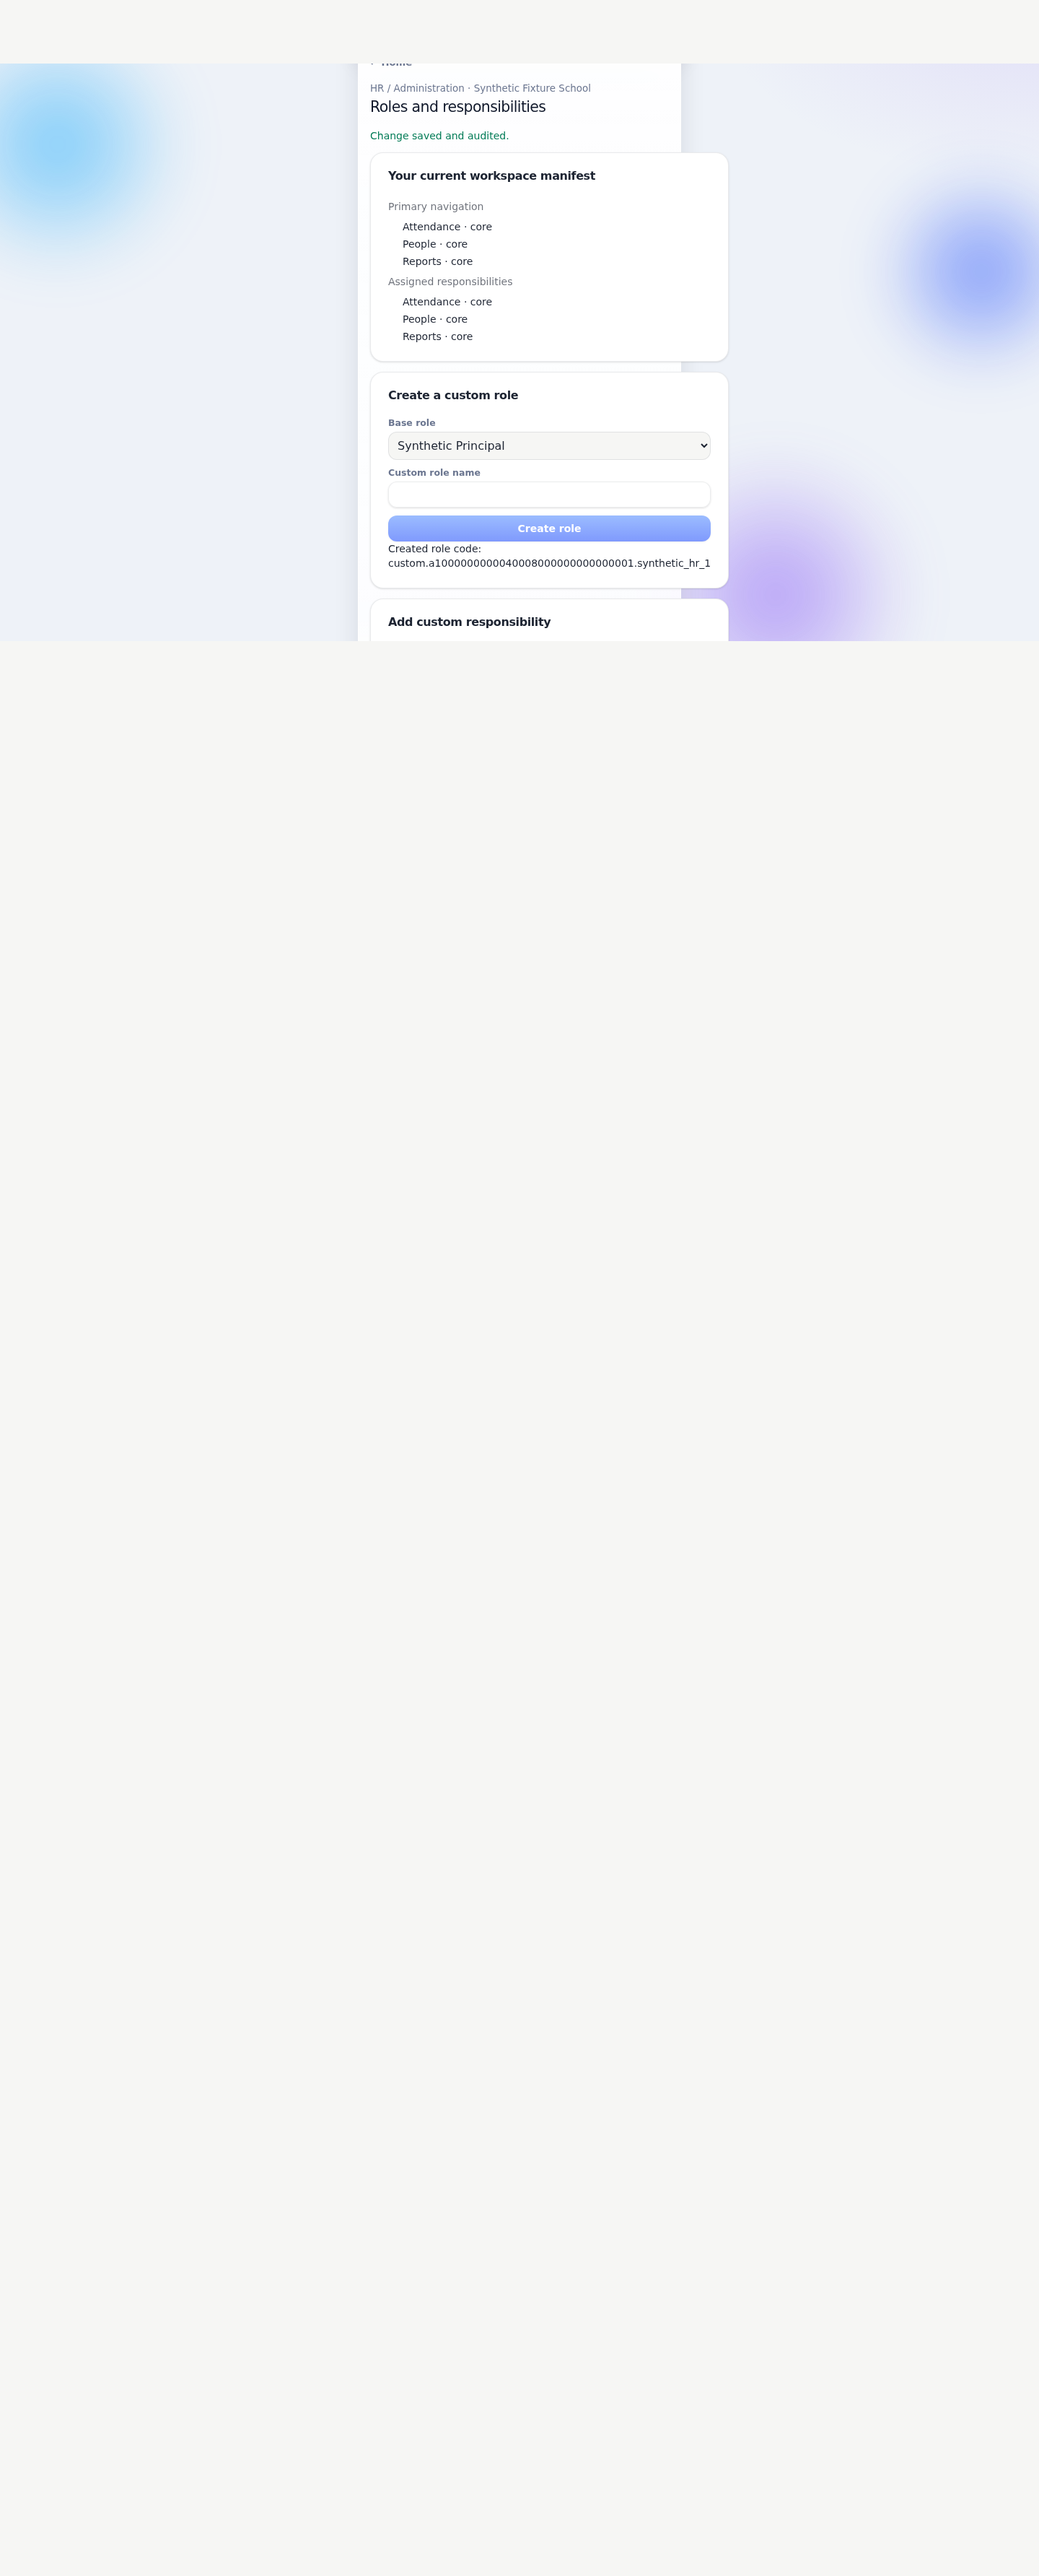
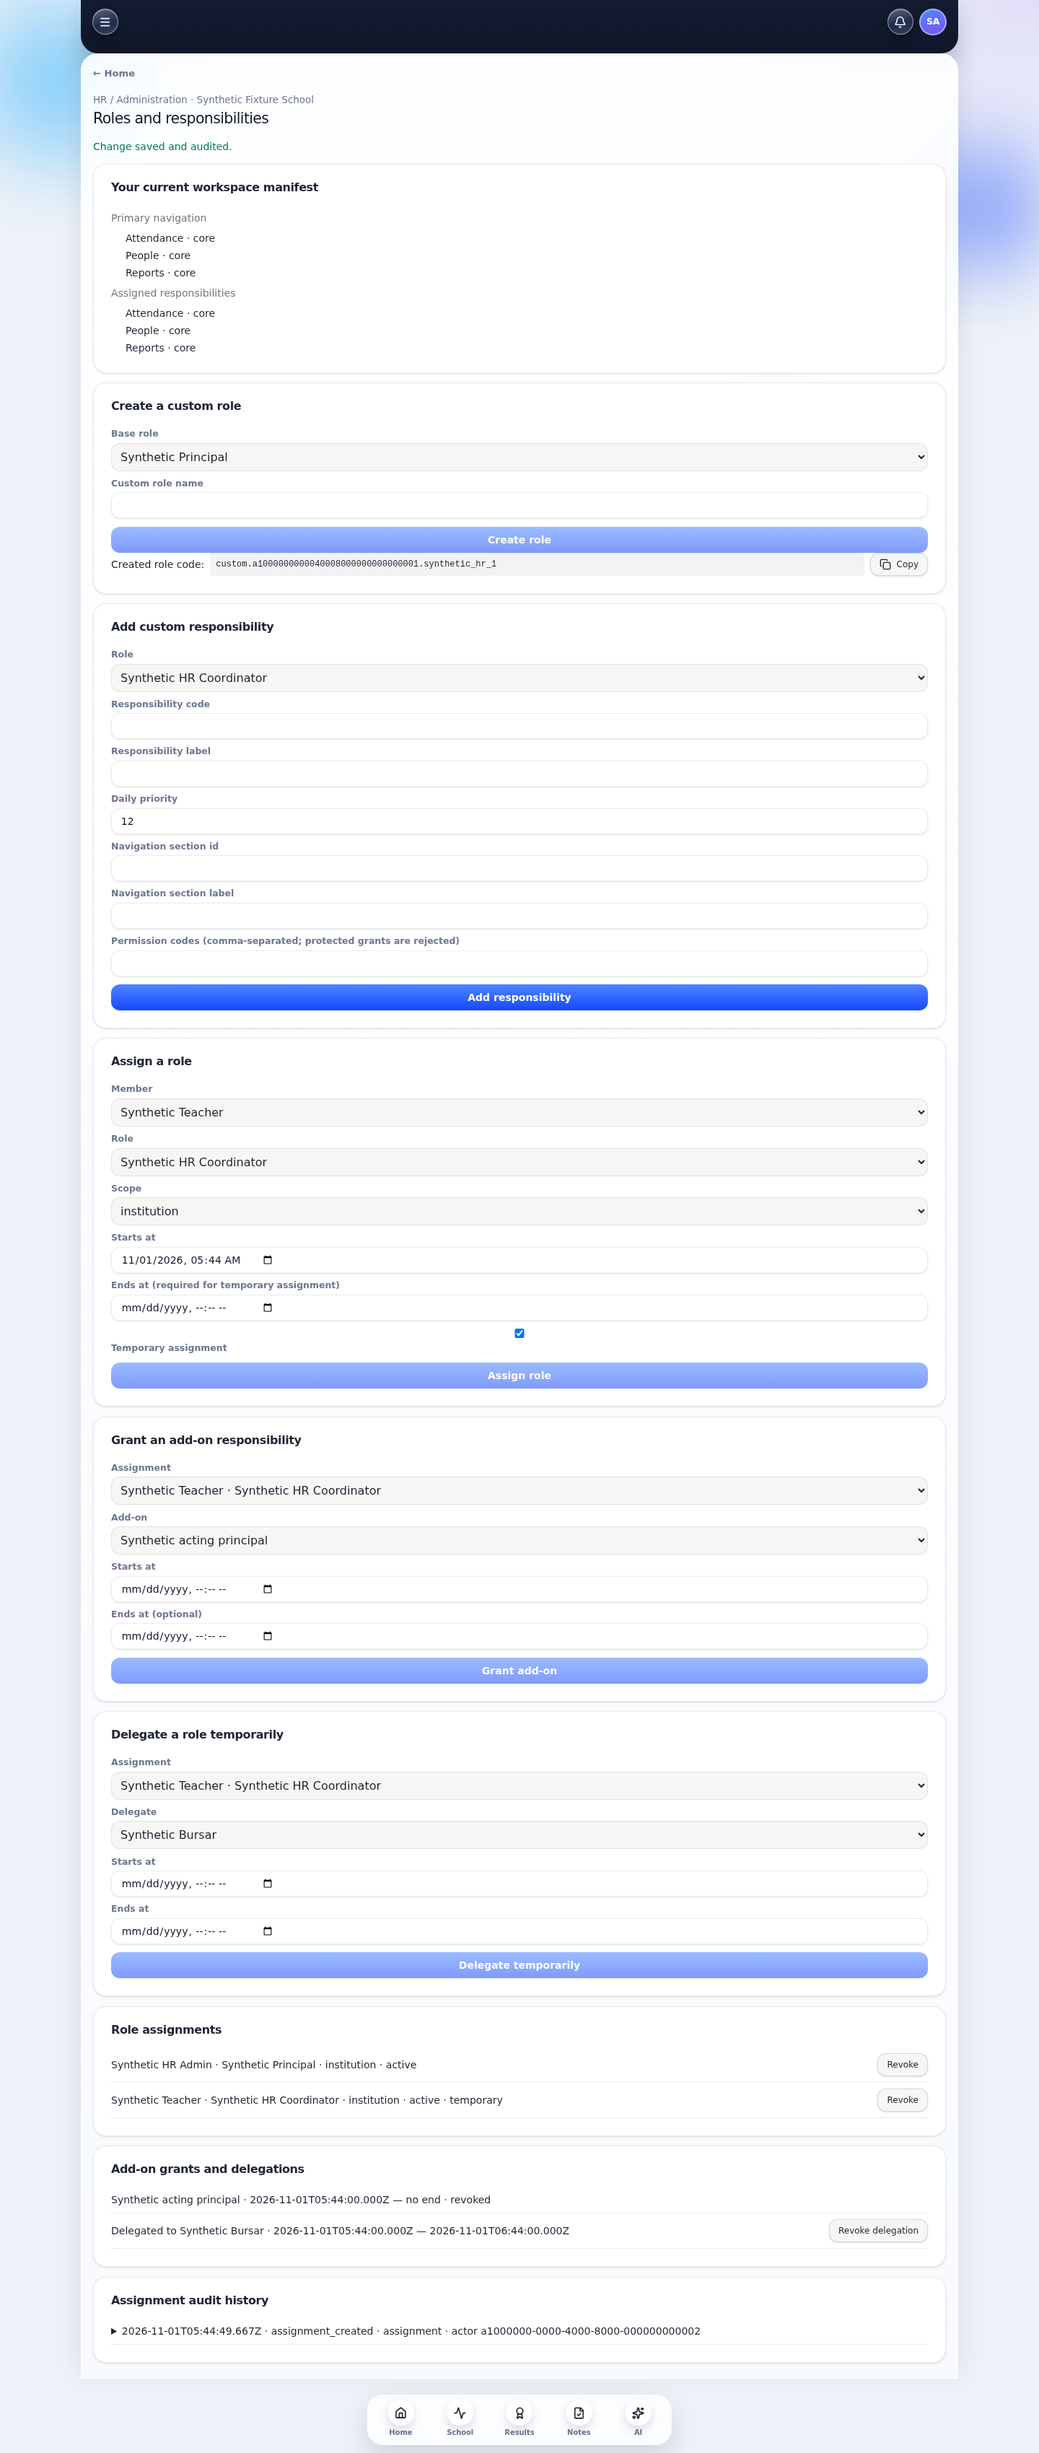
Fix role page document scrolling and captures

diff --git a/tests/e2e/role-management-screenshots.spec.ts b/tests/e2e/role-management-screenshots.spec.ts
@@ -373,7 +373,9 @@ test("captures desktop and mobile role-management screens with synthetic records
   await customRoleForm.getByRole("button", { name: "Create role" }).click();
   const customRoleCodeElement = page.locator("code").filter({ hasText: "synthetic_hr_" });
   await expect(customRoleCodeElement).toBeVisible();
-  const customRoleCode = await customRoleCodeElement.textContent().then((text) => text?.trim() ?? "");
+  const customRoleCode = await customRoleCodeElement
+    .textContent()
+    .then((text) => text?.trim() ?? "");
   expect(customRoleCode).toContain("synthetic_hr_");
   await expect(page.getByRole("button", { name: "Copy role code" })).toBeVisible();
 
@@ -474,6 +476,17 @@ test("captures desktop and mobile role-management screens with synthetic records
     .poll(() => page.evaluate(() => document.documentElement.scrollWidth))
     .toBeLessThanOrEqual(width);
   await expect(page.getByRole("link", { name: "← Home" })).toBeVisible();
+  await expect
+    .poll(() =>
+      page.evaluate(() => {
+        const header = document.querySelector(".app-shell-header")?.getBoundingClientRect();
+        const breadcrumb = document
+          .querySelector('[data-testid="role-management-screen"] .app-shell-back')
+          ?.getBoundingClientRect();
+        return (breadcrumb?.top ?? 0) >= (header?.bottom ?? Infinity);
+      }),
+    )
+    .toBe(true);
   await expect
     .poll(() => page.evaluate(() => document.documentElement.scrollHeight))
     .toBeGreaterThan(2000);

diff --git a/frontend/src/components/app-shell/app-shell.css b/frontend/src/components/app-shell/app-shell.css
@@ -104,6 +104,12 @@
   max-width: 100%;
 }
 
+html:has(.app-shell-frame.is-role-management),
+body:has(.app-shell-frame.is-role-management) {
+  height: auto;
+  min-height: 100dvh;
+}
+
 .app-shell.is-drawer-open .app-shell-frame {
   transform: translateX(3%) scale(0.97);
   transform-origin: right center;
